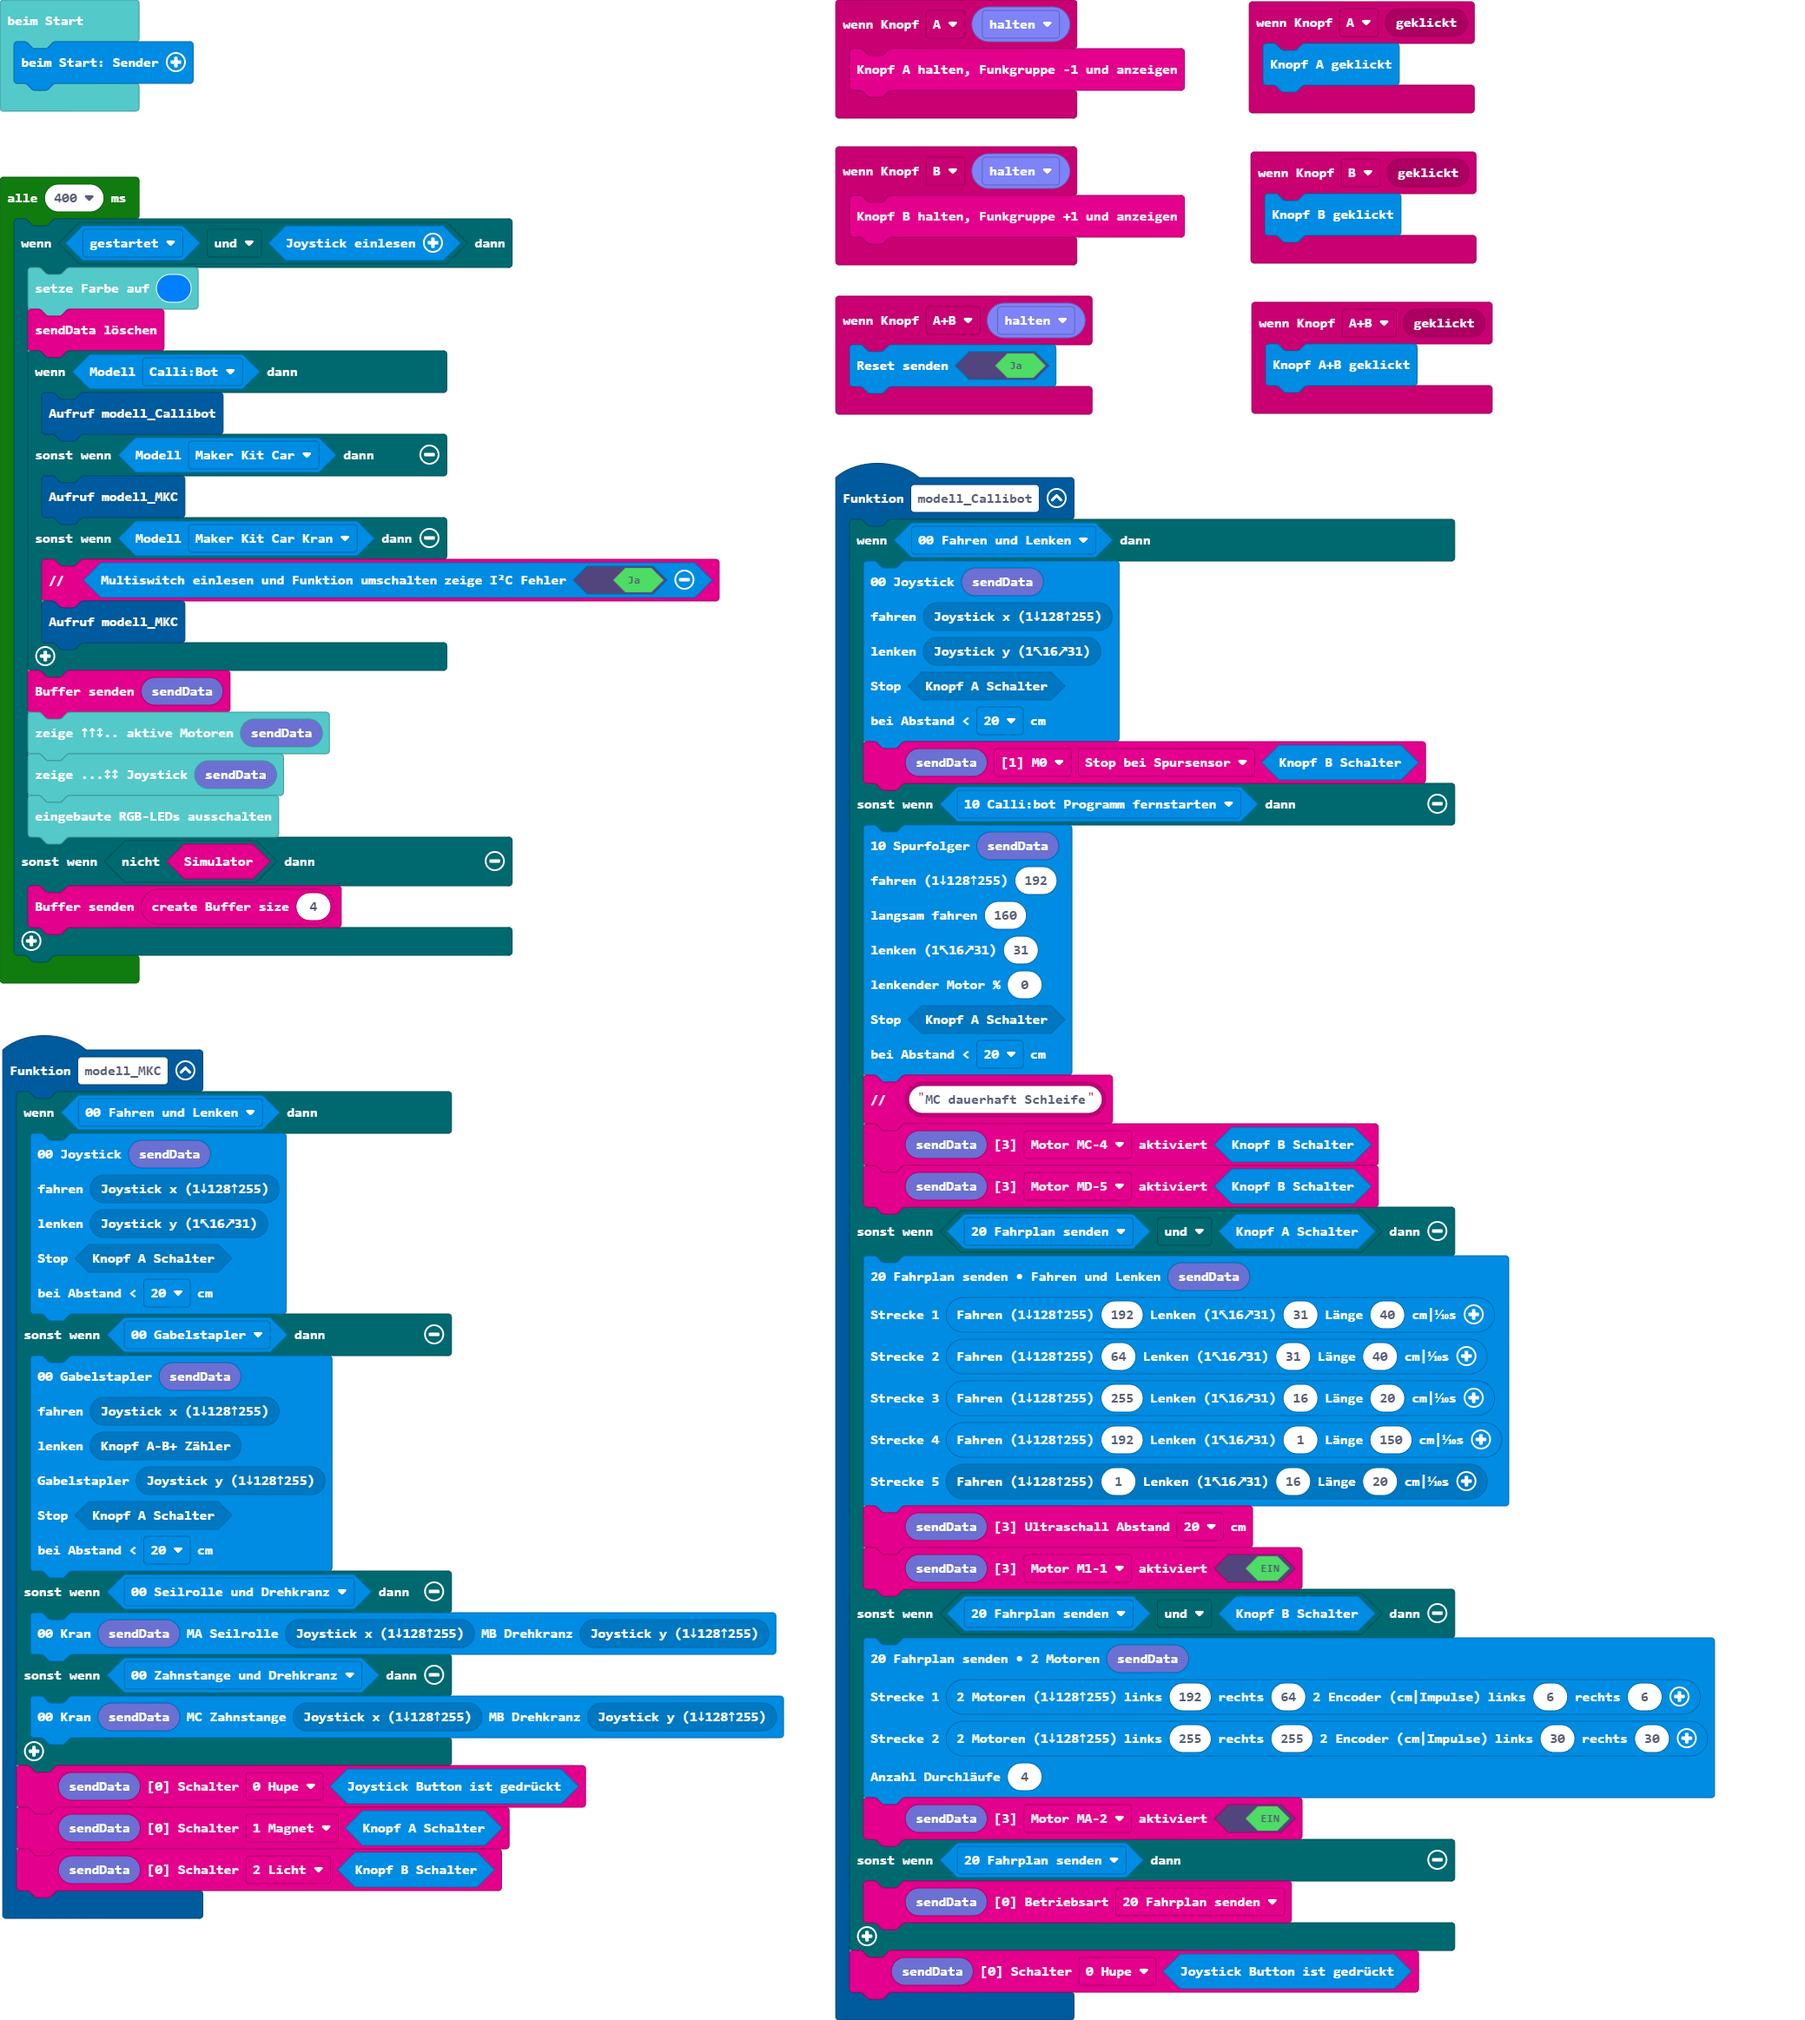
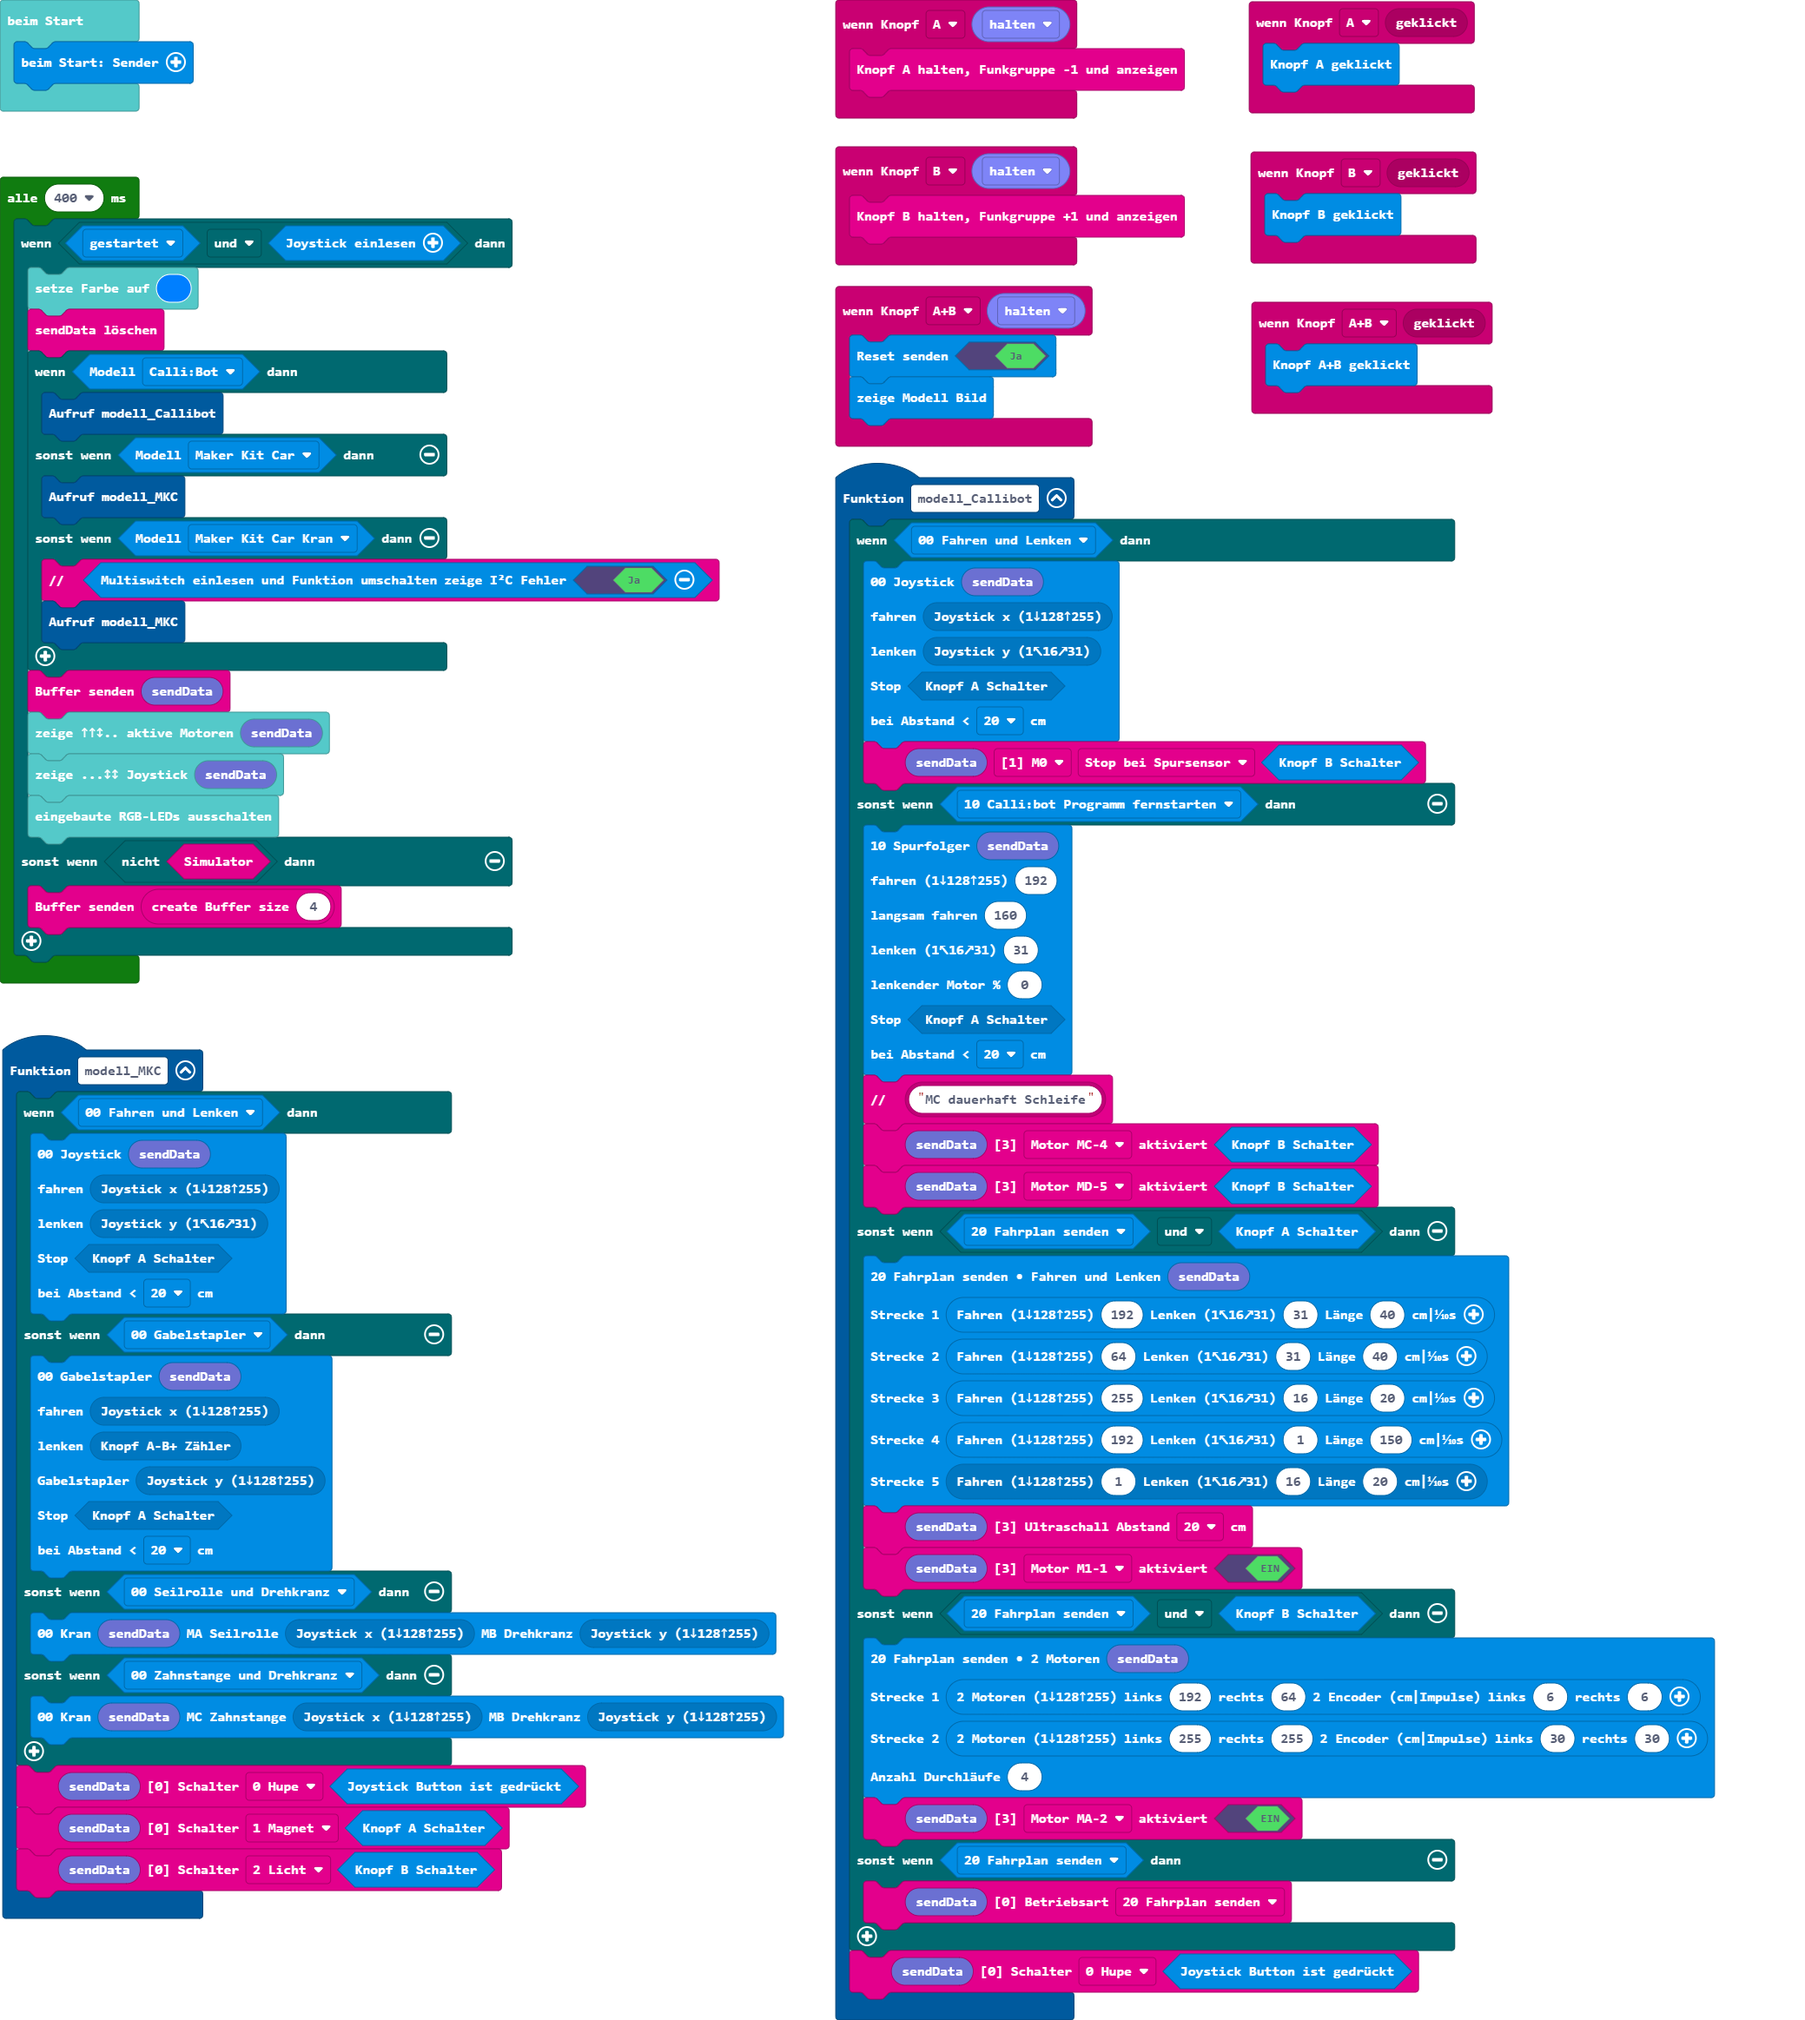
Aktualisiere pxt.json, main.blocks, main.ts

Changed region(s): [[0.462, 0.1238, 0.616, 0.2476]]

diff --git a/main.ts b/main.ts
@@ -47,6 +47,7 @@ function modell_Callibot () {
 }
 input.onButtonEvent(Button.AB, btf.buttonEventValue(ButtonEvent.Hold), function () {
     sender.setSendReset(true)
+    sender.zeigeModellImage()
 })
 input.onButtonEvent(Button.A, input.buttonEventClick(), function () {
     sender.buttonA()
